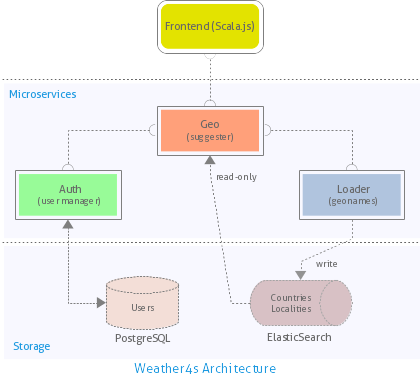
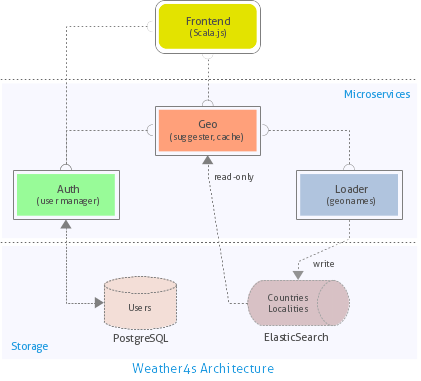
Added some info to the README about the microservices' functionalities

diff --git a/README.md b/README.md
@@ -14,9 +14,37 @@ The ultimate goal is rather to implement a fully-fledged, professional-grade, an
 - for exploring FP concepts in Scala
 - as well as a base from which to get ideas and tips for future projects.
 
-As additional aim, the project also tries to be quite opinionated, in some way, in the sense that it should be using only libraries that fully embrace the
-FP philosophy - being the only exception so far **Lucene**, used anyhow just in a few unit tests to assess the behaviour of the suggester - as on the other hand to never
-make use of any library that could add any sort of "magic" to the codebase (no dependency injection then).
+The project also pretends to be opinionated, in some way, as it should
+- use only libraries that fully embrace the FP philosophy, being the only exception so far **Lucene**, used anyhow just in a few unit tests to assess the behaviour of the
+  suggester
+- and never make use of any library that could add any sort of "magic" to the codebase (no dependency injection, for instance).
+
+### Microservices
+
+- **Loader**. Operates only upon a user request, sent via **Geo**. An architectural choice was to feed ElasticSearch with localities only when the user expressly asks
+  to make a specific country available for weather queries. When this happens and as long as the country's localities are not already present in the engine, the service
+  downloads the related CSV file from [geonames](http://download.geonames.org/export/dump/), transforms it and adds all resulting localities to the engine in a new
+  "country" engine index.
+
+  Only if the process is successful the **countries** engine index gets updated, with the document of the "new" country set as *available*. **Geo** is notified that one
+  country is now available only after the **Loader** updates the **meta** engine index, which acts as a trigger (ElasticSearch doesn't provide a "transaction-like" mechanism),
+  and anyhow only at the next iteration of the "CacheHandler" in **Geo** which, after noticed the **meta** document was updated, makes the country as a last step visible
+  to the user.
+
+- **Geo**. Aside from the user authentication, handled by **Auth**, **Geo** is the main backend interface for the frontend to which it provides the list of available and
+  non-available countries, as well as a list of suggested locations while the user types the name of the place she is looking the weather info for.
+
+  It is also responsible for the initialization of the engine, in which it persists, at the first launch of Weather4s, the list of all countries in the world, marked as
+  *not-available-yet*, as well as the **meta** document (in a specific engine index).
+
+- **Auth** (*In the works now!*). As expected, **Auth** handles all aspects of user management. From registration via email activation to authentication, to the
+  management of the profile, used by **Geo** to show the weather of the landing locality, chosen by the user during the registration, after he logs in.
+
+### Frontend
+
+**TBD** ... in truth, I already have a working prototype, but it's in Typescript/React. I won't use that, then. Plan is to only use FP Scala, accordingly
+the last step will be to write the frontend using Scala.js. Still, it should more or less draws on the same ideas, style and functionalities of the former implementation,
+as shown in [this screenshot](docs/screenshot.png), with the addition of a user login/registration page.
 
 ### Requirements
 
